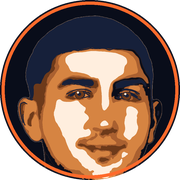
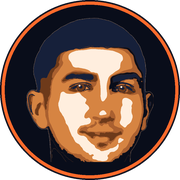
Kopf vollstaendig ins Zeichen einpassen
Der Kreis schnitt Ohren und Kinn ab. Ursache waren feste Prozentwerte: der
Ausschnitt lief von 8,5 auf 100,5 Prozent der Kreishoehe, also ein halbes
Prozent ueber den unteren Rand hinaus - genau dort sitzt das Kinn.

Statt neu zu schaetzen bestimmt das Skript die Einpassung jetzt selbst. Der
Ausschnitt kommt aus der Silhouette: Ende dort, wo die Zeilenbreite unter ein
Fuenftel des Maximums faellt, also am Hals. Skaliert wird nach der laengeren
Seite mit zehn Prozent Rand ringsum.

Nachgerechnet statt nach Augenmass: von 1.705.587 Kopfpixeln liegen null
ausserhalb des Kreises. Der Kopf belegt x 301..1745 und y 205..1842 einer
2048er Flaeche, hat also zu jeder Seite Luft.

Das Zeichen wird dadurch etwas kleiner im Kreis - das ist der Preis dafuer,
dass nichts abgeschnitten wird. Bei 34 px in der Kopfzeile traegt es weiter.

Claude-Session: https://claude.ai/code/session_012rMzwdjhAiaTmFdwN6K7jy

diff --git a/scripts/build-logo.py b/scripts/build-logo.py
@@ -76,16 +76,45 @@ def umfaerben(im, maske):
     return neu
 
 
-def abzeichen(gesicht, px, kopf=0.92, oben=0.085, ring=0.019):
-    C = px * 4                                  # intern vierfach fuer saubere Kanten
+def kopf_ausschnitt(maske):
+    """Ausschnitt vom Haaransatz bis zum Kinn bestimmen.
+
+    Unterhalb des Kinns laeuft die Silhouette in Hals und Schulter aus. Als
+    Ende wird die Zeile genommen, ab der die Breite unter ein Fuenftel des
+    Maximums faellt - das ist verlaesslicher als ein fester Pixelwert.
+    """
+    a = np.asarray(maske)
+    breite = (a > 128).sum(axis=1)
+    zeilen = np.nonzero(breite)[0]
+    oben = int(zeilen[0])
+    maxb = int(breite.max())
+    mitte = (oben + int(zeilen[-1])) // 2
+    unten = int(zeilen[-1])
+    for y in range(mitte, int(zeilen[-1]) + 1):
+        if breite[y] < maxb * 0.20:
+            unten = y
+            break
+    spalten = np.nonzero((a[oben:unten] > 128).sum(axis=0))[0]
+    return int(spalten[0]), oben, int(spalten[-1]) + 1, unten
+
+
+def abzeichen(gesicht, ausschnitt, px, rand=0.10, ring=0.019):
+    """Kopf vollstaendig in den Kreis setzen.
+
+    Der Kopf muss ganz hineinpassen - Ohren und Kinn duerfen nicht am Rand
+    abgeschnitten werden. Deshalb wird nach der laengeren Seite skaliert und
+    ringsum ein Rand freigelassen, statt eine feste Hoehe zu setzen.
+    """
+    C = px * 4
     b = Image.new('RGBA', (C, C), (0, 0, 0, 0))
     ImageDraw.Draw(b).ellipse([0, 0, C - 1, C - 1], fill=ABZEICHEN_BG)
 
-    f = gesicht.crop(AUSSCHNITT)
-    hoehe = int(C * kopf)
-    breite = int(f.width * hoehe / f.height)
-    b.alpha_composite(f.resize((breite, hoehe), Image.LANCZOS),
-                      ((C - breite) // 2, int(C * oben)))
+    f = gesicht.crop(ausschnitt)
+    platz = C * (1 - 2 * rand)
+    faktor = min(platz / f.width, platz / f.height)
+    ww, hh = max(1, int(f.width * faktor)), max(1, int(f.height * faktor))
+    b.alpha_composite(f.resize((ww, hh), Image.LANCZOS),
+                      ((C - ww) // 2, (C - hh) // 2))
 
     kreis = Image.new('L', (C, C), 0)
     ImageDraw.Draw(kreis).ellipse([0, 0, C - 1, C - 1], fill=255)
@@ -100,7 +129,8 @@ def abzeichen(gesicht, px, kopf=0.92, oben=0.085, ring=0.019):
 im = Image.open(QUELLBILD).convert('RGB').resize((ARBEIT, ARBEIT), Image.LANCZOS)
 maske = freistellen(im)
 gesicht = umfaerben(im, maske)
-AUSSCHNITT = maske.getbbox()[0], 19, maske.getbbox()[2], 940
+AUSSCHNITT = kopf_ausschnitt(maske)
+print('Kopf-Ausschnitt:', AUSSCHNITT)
 
 ZIELE = {
     'assets/brand/voltiq-mark-512.png': 512,
@@ -112,7 +142,7 @@ ZIELE = {
 }
 for pfad, px in ZIELE.items():
     ziel = os.path.join(WURZEL, pfad)
-    abzeichen(gesicht, px).save(ziel, optimize=True)
+    abzeichen(gesicht, AUSSCHNITT, px).save(ziel, optimize=True)
     print('%-42s %4d px  %6d B' % (pfad, px, os.path.getsize(ziel)))
 
 # Freigestelltes Gesicht ohne Abzeichen - fuer den Startbildschirm.

diff --git a/README.md b/README.md
@@ -60,6 +60,12 @@ Zwei Dinge, die beim Nachbauen leicht schiefgehen:
   stanzt Loecher ins Gesicht. Das Skript flutet deshalb nur vom Bildrand.
 - **Groesse.** Unter etwa 30 px zerfaellt ein Gesicht zu Matsch. Deshalb steht
   das Zeichen in der Kopfzeile auf 34 px und nicht kleiner.
+- **Einpassung nicht schaetzen.** Der Kopf muss ganz in den Kreis passen,
+  Ohren und Kinn duerfen nicht am Rand abgeschnitten werden. Das Skript
+  bestimmt den Ausschnitt aus der Silhouette (Ende dort, wo die Breite unter
+  ein Fuenftel des Maximums faellt - also am Hals) und skaliert nach der
+  laengeren Seite mit 10 Prozent Rand. Feste Prozentwerte hatten das Kinn
+  um ein halbes Prozent ueber den Kreisrand geschoben.
 
 Fuer den Browser-Tab bleibt es beim Blitz (`assets/favicon.svg`): bei 16 px
 ist ein Gesicht nicht mehr lesbar, ein Blitz schon. Beide gehoeren zum selben
